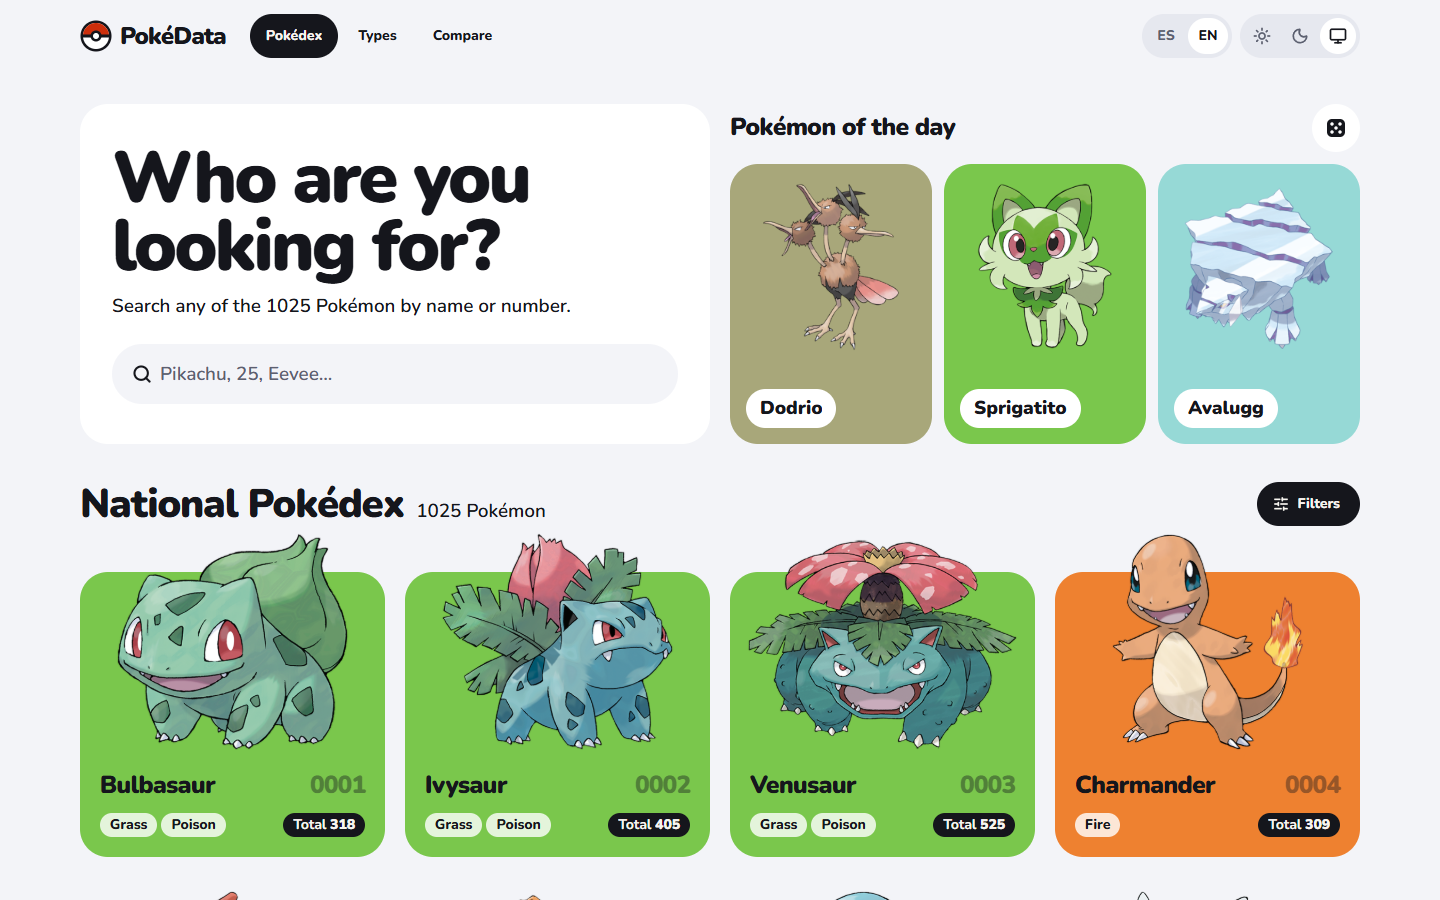
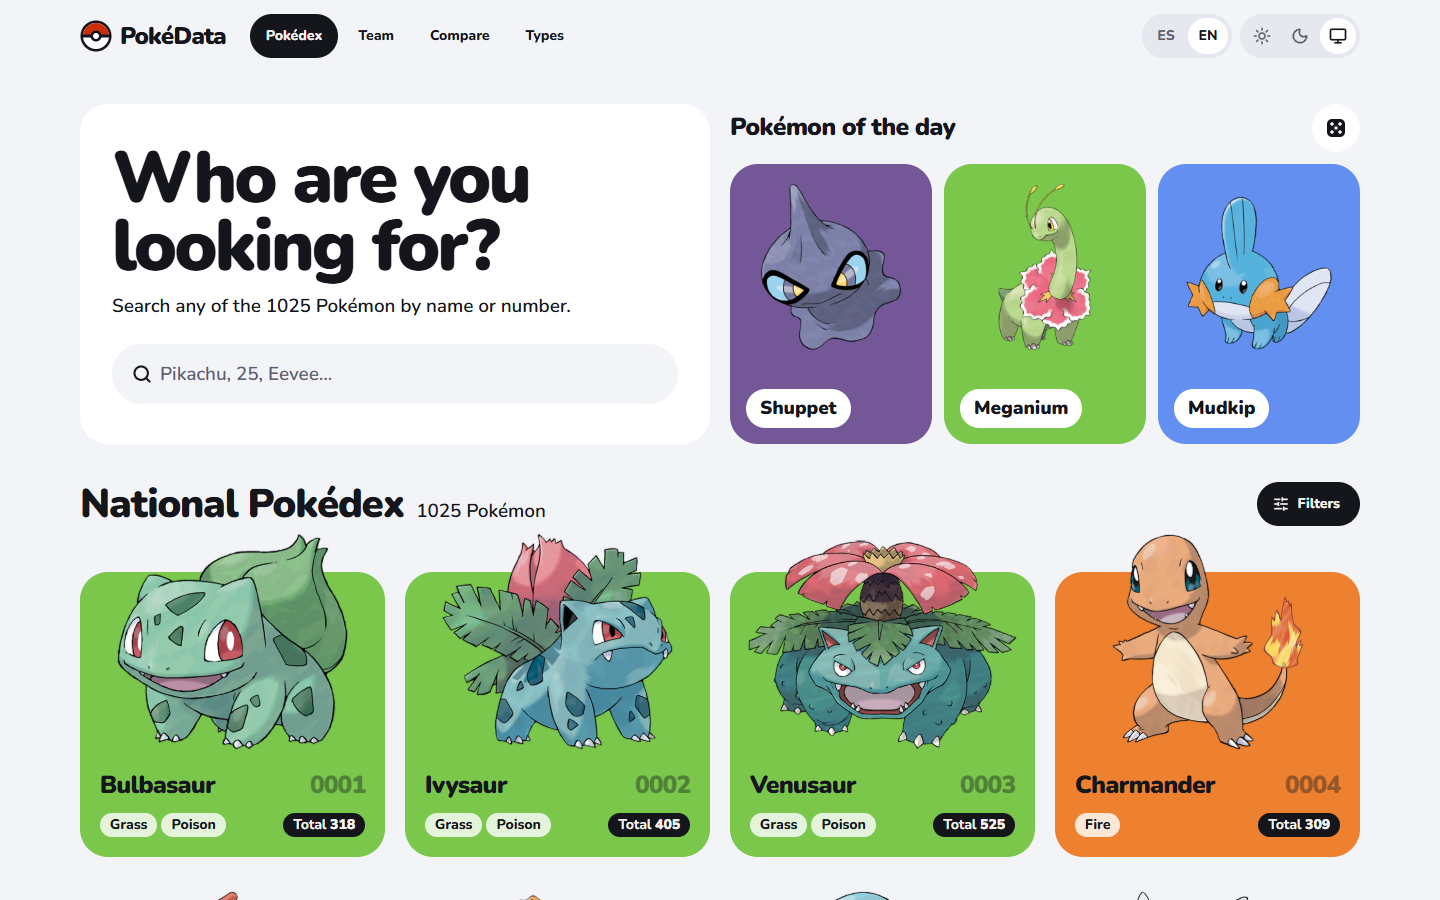
docs(readme): add the team builder, theme switcher, new files and scripts, and retake the screenshots with the four-link nav plus team, defense and coverage

Changed region(s): [[0.5, 0.1556, 0.9688, 0.4978], [0.25, 0.0311, 0.3438, 0.0622], [0.375, 0.0311, 0.4062, 0.0622]]

diff --git a/README.md b/README.md
@@ -1,6 +1,6 @@
 # ⚡ PokéData
 
-PokéData is a modern, fast Pokémon database built with **Next.js 16 (App Router)**, **TypeScript**, and **Tailwind CSS 4**. Engineered with a focus on performance, mobile accessibility, and seamless UX across all 1,025 official Pokémon and their alternate forms, in English and Spanish.
+PokéData is a modern, fast Pokémon database built with **Next.js 16 (App Router)**, **TypeScript**, and **Tailwind CSS 4**. Engineered with a focus on performance, mobile accessibility, and seamless UX across all 1,025 official Pokémon and their alternate forms, in English and Spanish, with a team builder that analyzes your six.
 
 > **Fan-made project.** PokéData is not affiliated with, endorsed by, or connected to Nintendo, Game Freak, or Creatures. Pokémon and Pokémon character names are trademarks of their respective owners.
 
@@ -15,6 +15,10 @@ PokéData is a modern, fast Pokémon database built with **Next.js 16 (App Route
 | Type chart | Comparator |
 | :--------: | :--------: |
 | ![Type effectiveness chart](docs/screenshots/type-chart.png) | ![Kyogre and Groudon in the comparator](docs/screenshots/comparator.png) |
+
+| Team builder | Team defense | Team coverage & stats |
+| :----------: | :----------: | :-------------------: |
+| ![A six-Pokémon team in the team builder](docs/screenshots/team.png) | ![The team's defense matrix with the biggest risk](docs/screenshots/team-defense.png) | ![The team's offensive coverage and base stats](docs/screenshots/team-coverage.png) |
 
 ---
 
@@ -47,6 +51,15 @@ PokéData is a modern, fast Pokémon database built with **Next.js 16 (App Route
   - Full evolution graph supporting multi-branch paths (e.g., Eevee, Tyrogue, Applin).
   - Each step shows its condition: level, item, held item, friendship, time of day, known move, location, gender, or trade.
 
+- **Team Builder:**
+  - Up to six Pokémon, saved in the browser and synced across tabs. Add them from a selector with search and the species' forms (regional, Mega, Gigantamax…), or with **Add to team** on any detail page.
+  - Each member links to its page in the chosen form and can be moved, dragged to reorder, switched to another form, or removed.
+  - A random team die fills the empty slots with species of varied types (or rerolls a full team), and an **Undo** toast brings back the last removal, clear, or reroll in the same slot and form.
+  - **Defense:** an 18-row matrix with what each member takes from every attacking type, weak / resist / immune counts per row, and the biggest risk highlighted.
+  - **Offensive coverage:** which opposing types the team's types hit super effectively, and which ones it can't.
+  - **Base stats:** the team's average total and each stat's average, with the best member for each.
+  - **Share link:** the team travels in the URL (`?t=garchomp,scizor,...`); a shared team opens without overwriting your own, with the option to save it.
+
 - **Interactive Type Chart:**
   - The full 18 × 18 effectiveness table. Select an attacking row or a defending column to highlight its matchups; the selection lives in the URL and works without JavaScript.
 
@@ -60,7 +73,8 @@ PokéData is a modern, fast Pokémon database built with **Next.js 16 (App Route
   - Every page lives under `/en` or `/es`, detected from the browser language, with translated URLs (e.g., `/es/tabla-de-tipos`, `/en/type-chart`) and a language switcher that keeps you on the same page.
 
 - **Pop Design:**
-  - Light design built on the 18 official type colors: cards, stages, and filters take the field color of their type, with contrast-checked text on each.
+  - Light, dark, or system theme, with a switcher in the header and the mobile menu.
+  - Design built on the 18 official type colors: cards, stages, and filters take the field color of their type, with contrast-checked text on each.
   - Cards with large artwork that overflows the card, normalized in size across every Pokémon from measured artwork bounds.
   - A single typeface, **Nunito**, served locally with `next/font/local`.
   - Animations powered by **Framer Motion**, with `prefers-reduced-motion` support.
@@ -89,6 +103,7 @@ PokéData is a modern, fast Pokémon database built with **Next.js 16 (App Route
 ```text
 scripts/
 ├── artwork-bounds.mjs            # Measures each artwork's opaque bounds for size normalization
+├── check-contrast.mjs            # Checks the contrast of every color pair in globals.css
 └── pokemon-index.mjs             # Builds the compact Pokémon index used by the Pokémon of the Day
 src/
 ├── app/
@@ -100,24 +115,29 @@ src/
 │   │   ├── pokemon/
 │   │   │   └── [name]/
 │   │   │       └── page.tsx      # Pokémon detail (stats, forms, weaknesses & evolution)
+│   │   ├── team/
+│   │   │   └── page.tsx          # Team builder (/en/team, /es/equipo)
 │   │   ├── types/
 │   │   │   └── page.tsx          # Type chart (/en/type-chart, /es/tabla-de-tipos)
 │   │   ├── layout.tsx            # Locale layout: Nunito, header and footer
 │   │   ├── not-found.tsx         # 404 page
 │   │   └── page.tsx              # Home: hero, filters, result count and grid
 │   ├── api/
-│   │   └── search/
-│   │       └── route.ts          # Search endpoint with multilingual aliases & pagination offset
+│   │   ├── search/
+│   │   │   └── route.ts          # Search endpoint with multilingual aliases & pagination offset
+│   │   └── team/
+│   │       └── route.ts          # Each team member's data and forms, in both languages
 │   ├── fonts/                    # Nunito WOFF2 files (600, 700, 800, 900) and their licence
 │   ├── globals.css               # Design tokens, type colors and Tailwind theme
-│   ├── robots.txt
+│   ├── robots.ts
 │   └── sitemap.ts
 ├── components/
-│   ├── common/                   # Header, footer, global search, language switcher, Poké Ball, motion
+│   ├── common/                   # Header, footer, global search, language & theme switchers, toast, die, motion
 │   ├── compare/                  # Comparator stages, stat bars and Pokémon picker
 │   ├── home/                     # Hero, hero search, Pokémon of the Day, filters panel and grid
 │   ├── pokemon/                  # Pokémon card and its loading skeleton
-│   ├── pokemon-detail/           # Detail stage, base stats, weaknesses, evolution tree and navigation
+│   ├── pokemon-detail/           # Detail stage, Add to team, base stats, weaknesses, evolution tree and navigation
+│   ├── team/                     # Team fields, picker, random die, defense, coverage and stats panels
 │   └── types/
 │       └── TypeChart.tsx         # Interactive type chart
 ├── constants/
@@ -135,6 +155,12 @@ src/
 │   ├── home-query.ts             # Home search, filters and result count
 │   ├── daily.ts / daily-server.ts # Pokémon of the Day selection
 │   ├── artwork.ts                # Artwork size normalization
+│   ├── team.ts                   # Team store, localStorage and the ?t= share link
+│   ├── team-analysis.ts          # Defense, biggest risk, coverage and stats (with tests)
+│   ├── team-random.ts            # Random team with varied types (with tests)
+│   ├── team-members.ts           # Cache of member data fetched from /api/team
+│   ├── theme.ts                  # Light / dark / system theme
+│   ├── metadata.ts               # Site URL, canonicals, hreflang and social cards
 │   └── ...                       # Type matrix, Pokémon names, reveal and hero search helpers
 └── proxy.ts                      # Locale detection and translated URL rewrites
 ```
@@ -179,6 +205,8 @@ src/
 - `npm run build` - Creates an optimized production build.
 - `npm run start` - Boots the production server.
 - `npm run lint` - Runs ESLint to check for static code errors.
+- `npm test` - Runs the unit tests (team analysis and random team) with Node's test runner.
+- `npm run check-contrast` - Verifies the contrast of the theme colors (WCAG 4.5:1 for text, 3:1 for graphics).
 - `npm run artwork-bounds` - Regenerates `src/data/artwork-bounds.json` (only needed if PokéAPI artwork changes or new Pokémon are added).
 - `npm run pokemon-index` - Regenerates `src/data/pokemon-index.json`.
 
